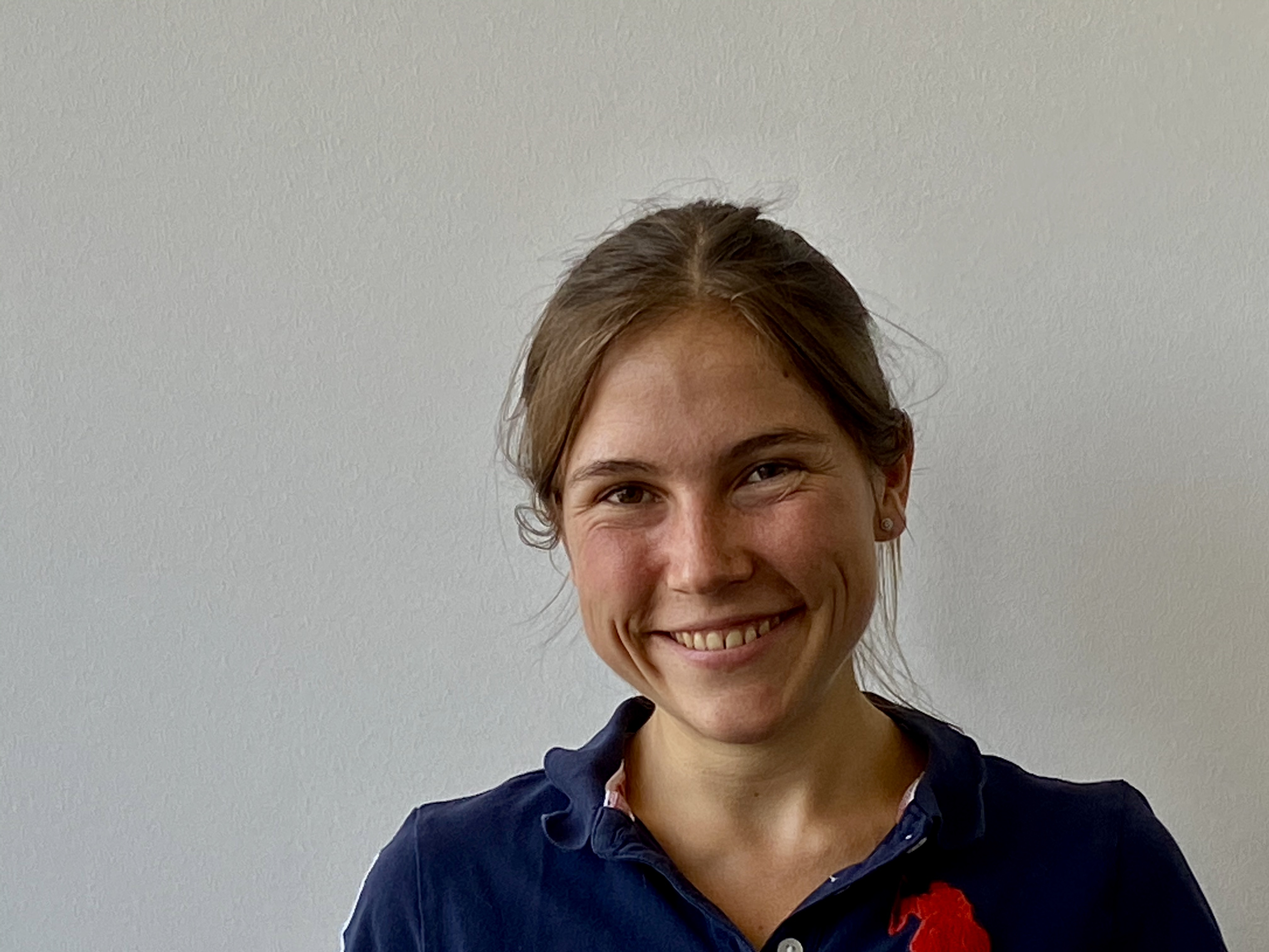
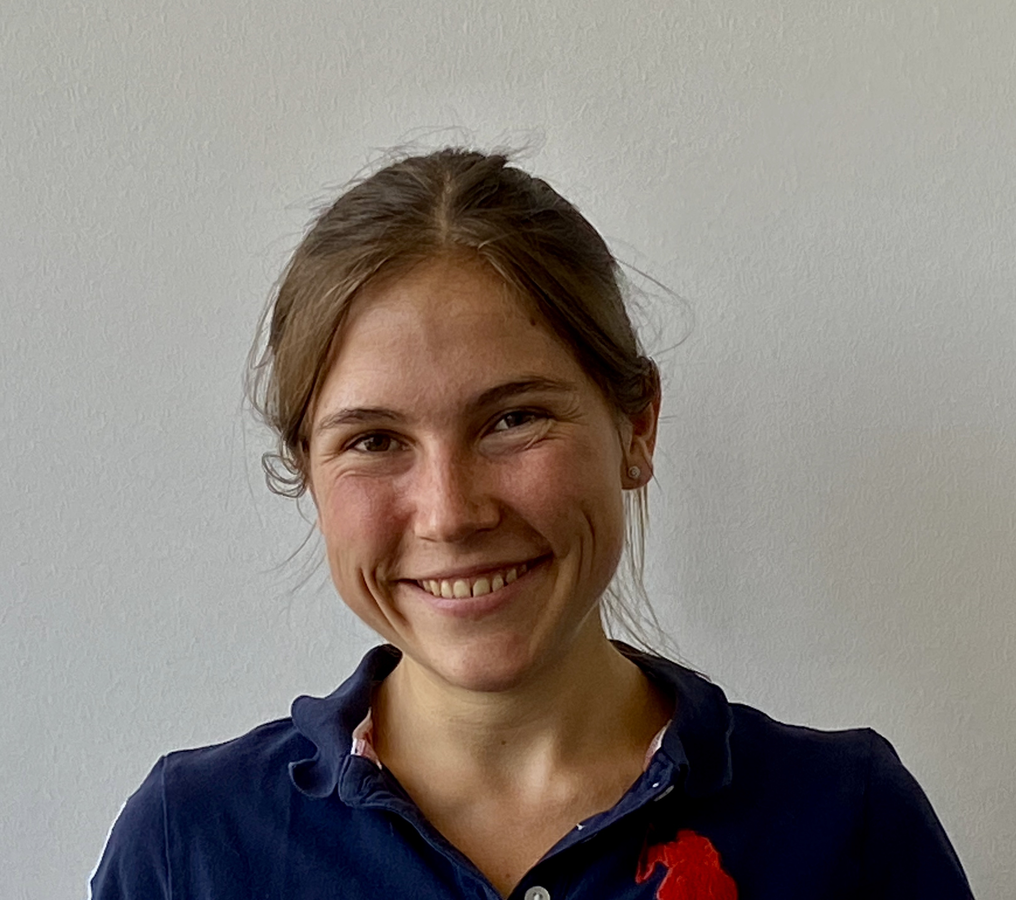
use flex to make the image/text alignment better

diff --git a/site/_includes/people_list.html b/site/_includes/people_list.html
@@ -14,6 +14,8 @@
   {{ person.name }}
   {%- endif -%}
 </{{ header_lvl }}>
-<img src="{{ person.picture }}" align="right" style="padding:0px 0px 0px 15px" width="100"/>
-{{ person.content }}
+<div style="display:flex;align-items:start;justify-content:space-between">
+  {{ person.content }}
+  <img src="{{ person.picture }}" style="padding:0px 0px 0px 15px" width="100" height="100%"/>
+</div>
 {% endfor %}

diff --git a/site/assets/main2.css b/site/assets/main2.css
@@ -99,6 +99,10 @@ main {
 /**
  * Images
  */
+p:has(img) {
+  flex: 1 0 auto;
+}
+
 img {
   max-width: 100%;
   vertical-align: middle;
